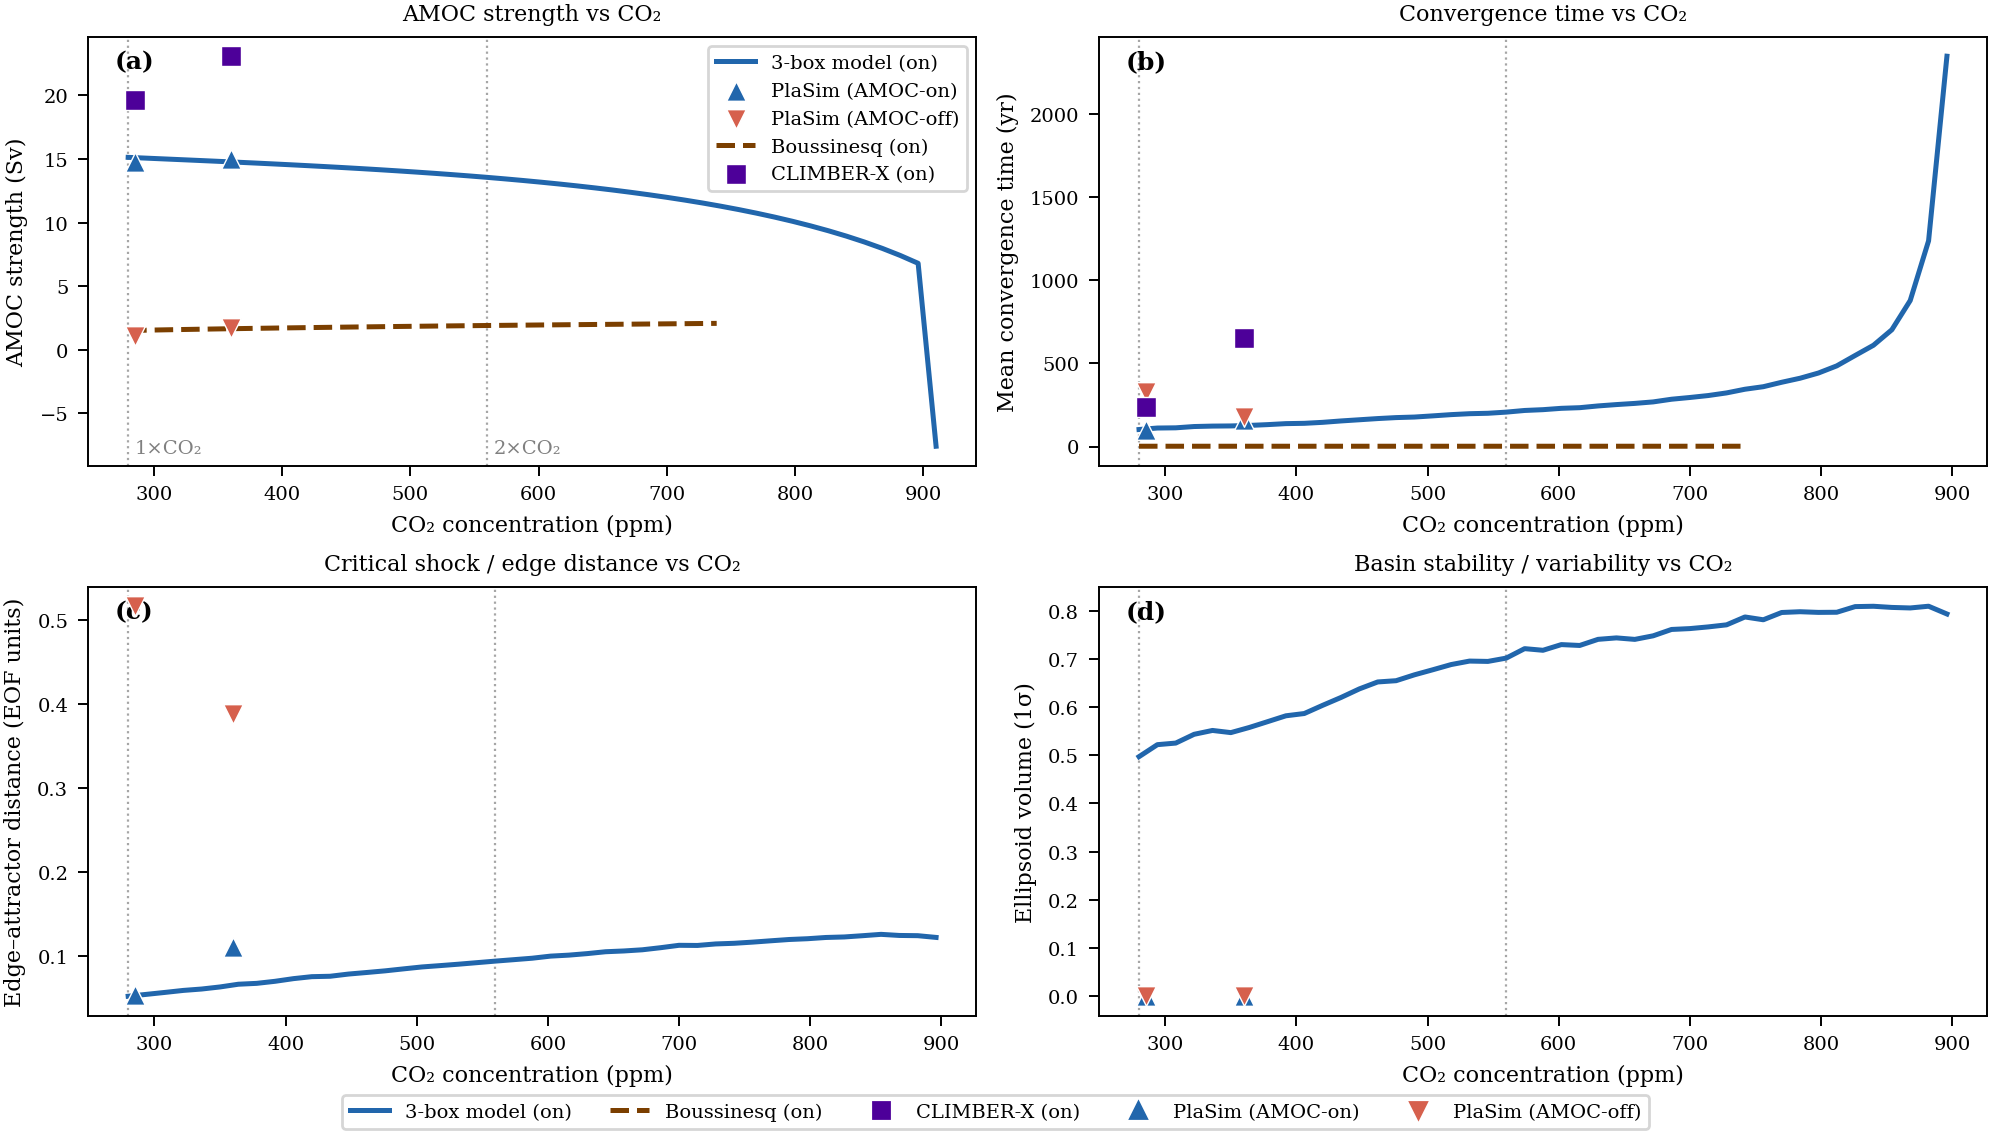
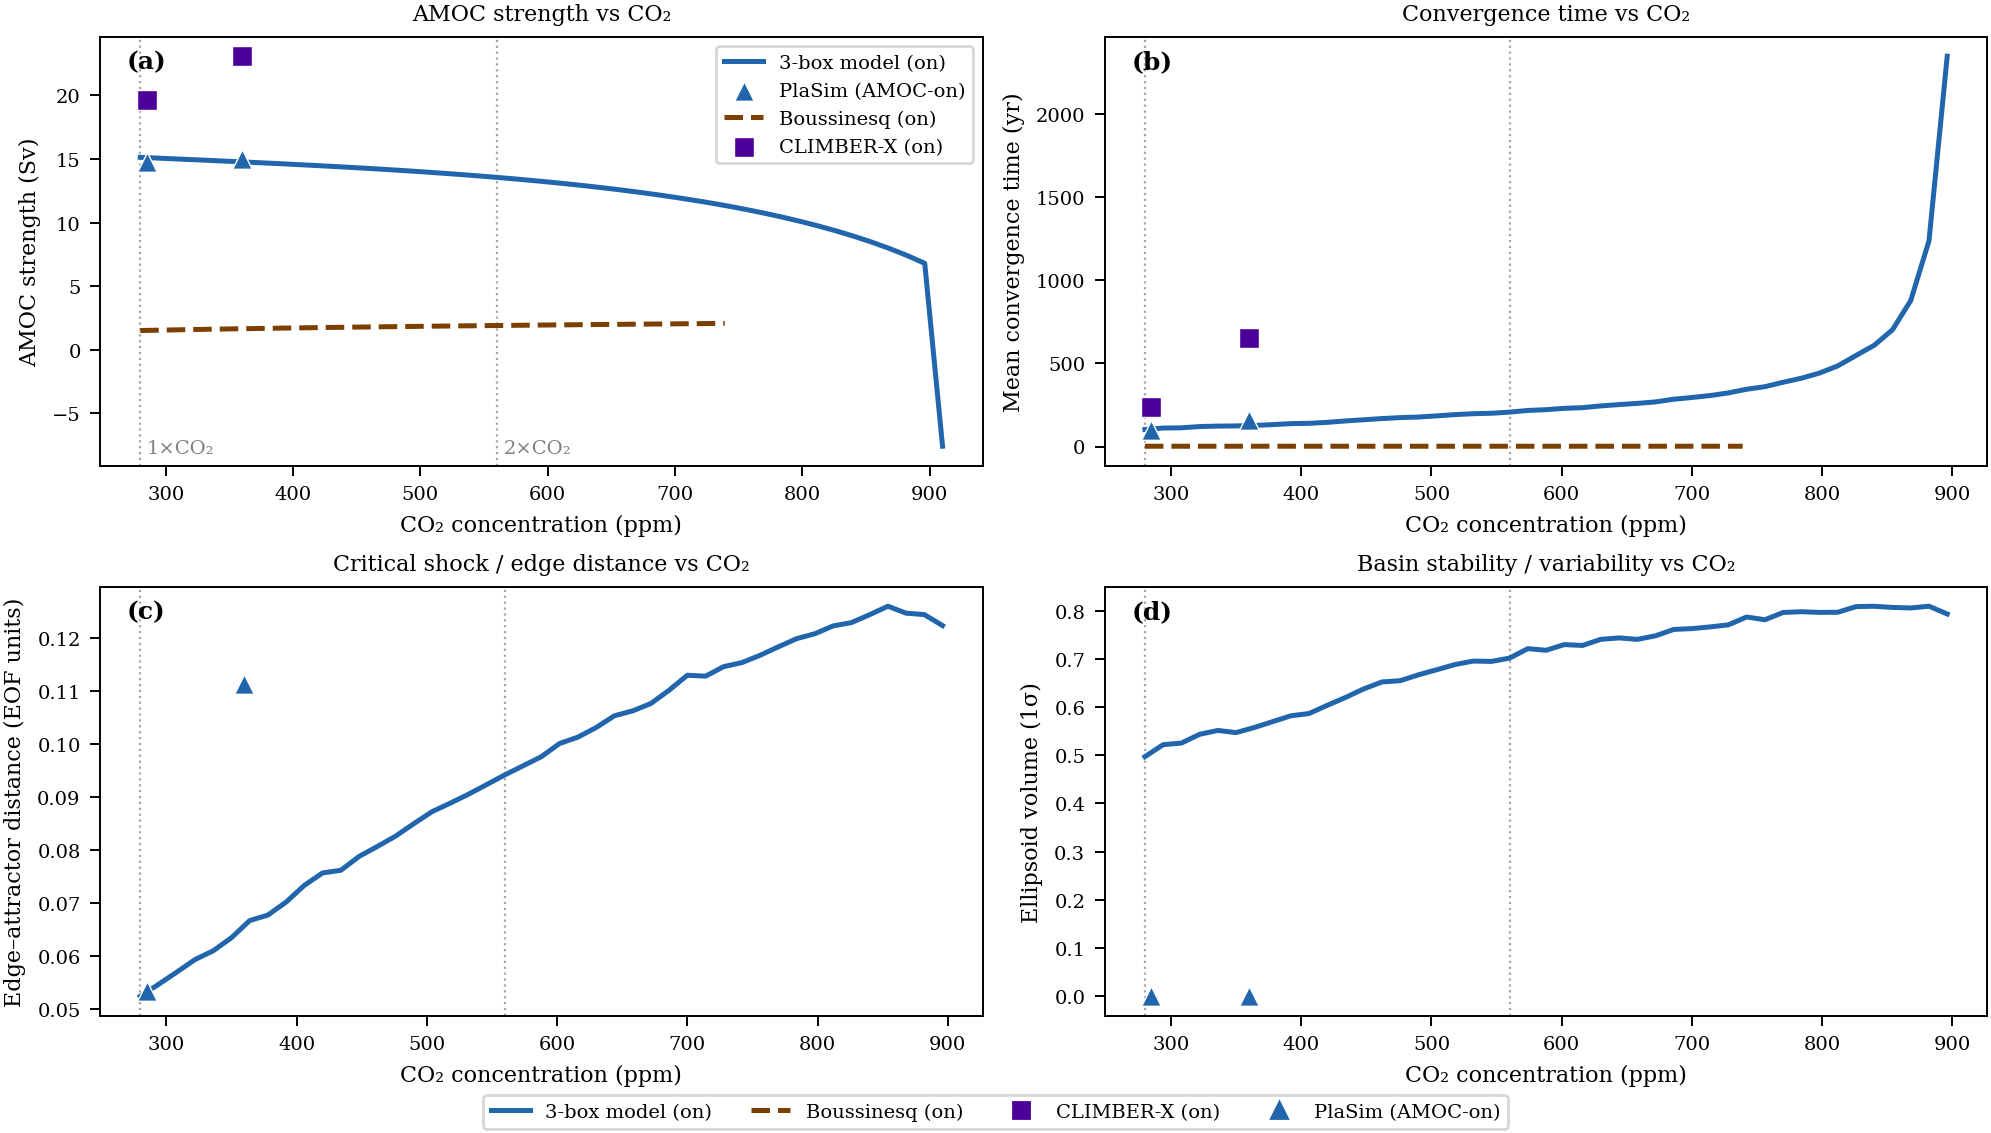
Remove off-state data from synthesis figure

diff --git a/synthesis_figure.py b/synthesis_figure.py
@@ -187,7 +187,6 @@ def main() -> None:
         if df_plasim is not None and plasim_col in df_plasim.columns:
             for state, color, marker in [
                 ("AMOC-on",  COL_ON,  "^"),
-                ("AMOC-off", COL_OFF, "v"),
             ]:
                 sub_p = df_plasim[df_plasim["state"] == state].dropna(
                     subset=["co2_ppm", plasim_col]
@@ -279,14 +278,12 @@ def main() -> None:
                label="CLIMBER-X (on)"),
         Line2D([0], [0], color=COL_ON,       lw=0,  marker="^", markersize=6,
                label="PlaSim (AMOC-on)"),
-        Line2D([0], [0], color=COL_OFF,      lw=0,  marker="v", markersize=6,
-               label="PlaSim (AMOC-off)"),
     ]
     fig.legend(
         handles=legend_elements,
         loc="lower center",
         bbox_to_anchor=(0.5, -0.04),
-        ncol=5,
+        ncol=4,
         fontsize=7,
         framealpha=0.8,
     )